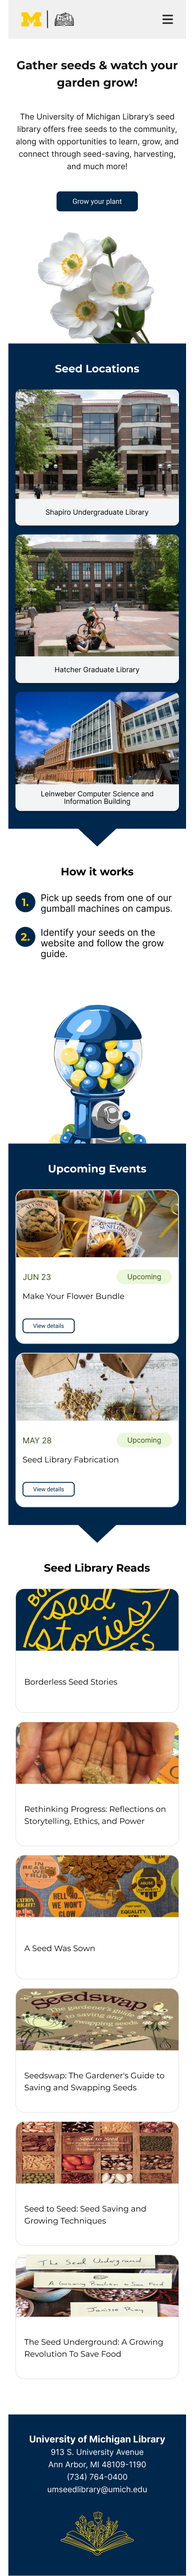
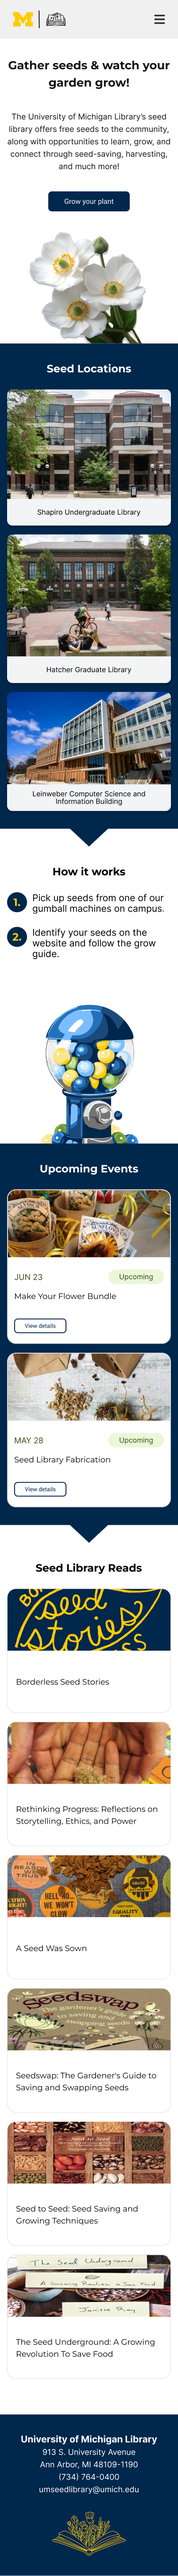
fixed seed library figures 4..

diff --git a/src/components/Lightbox.jsx b/src/components/Lightbox.jsx
@@ -1,4 +1,4 @@
-import { useEffect, useRef } from 'react'
+import { useEffect, useRef, useState } from 'react'
 import { createPortal } from 'react-dom'
 
 export default function Lightbox({
@@ -17,6 +17,20 @@ export default function Lightbox({
 }) {
   const cardRef = useRef(null)
   const previouslyFocusedRef = useRef(null)
+  const stageRef = useRef(null)
+  const [isTall, setIsTall] = useState(false)
+
+  // Reset tall detection + scroll position whenever the displayed source changes
+  useEffect(() => {
+    setIsTall(false)
+    if (stageRef.current) stageRef.current.scrollTop = 0
+  }, [src, svg, html])
+
+  const onImageLoad = (e) => {
+    const img = e.currentTarget
+    if (!img.naturalWidth || !img.naturalHeight) return
+    setIsTall(img.naturalHeight / img.naturalWidth > 1.6)
+  }
 
   useEffect(() => {
     if (!isOpen) return
@@ -114,7 +128,10 @@ export default function Lightbox({
         aria-modal="true"
         aria-label={dialogLabel}
       >
-        <div className="img-modal-stage">
+        <div
+          ref={stageRef}
+          className={`img-modal-stage${isTall ? ' is-tall' : ''}`}
+        >
           {html ? (
             <div
               className="img-modal-image html-wrap"
@@ -136,6 +153,7 @@ export default function Lightbox({
               alt={alt || label || ''}
               className="img-modal-image"
               onClick={imgClick}
+              onLoad={onImageLoad}
             />
           )}
         </div>

diff --git a/src/css/components.css b/src/css/components.css
@@ -986,6 +986,21 @@
   max-height: calc(100vh - 64px - 48px); /* viewport - vertical padding - footer */
   cursor: pointer;
 }
+/* Tall / portrait images: clamp width, let stage scroll vertically */
+.img-modal-stage.is-tall {
+  align-items: flex-start;
+  justify-content: center;
+  overflow-y: auto;
+  overflow-x: hidden;
+  max-height: calc(100vh - 64px - 48px);
+  width: 100%;
+}
+.img-modal-stage.is-tall .img-modal-image {
+  max-height: none;
+  width: clamp(320px, 30vw, 500px);
+  max-width: min(calc(100vw - 64px - var(--modal-arrow-gutter)), 500px);
+  height: auto;
+}
 .img-modal-arrow {
   flex-shrink: 0;
   width: 44px;

diff --git a/src/pages/Home.jsx b/src/pages/Home.jsx
@@ -76,7 +76,7 @@ export default function Home({ onNavigate }) {
 
       <footer className="home-footer">
         <span className="end-marker">end of index · anthony.shephard</span>
-        <span>university of michigan · 2026</span>
+        <span>thanks for visiting &#x1F604;</span>
       </footer>
     </div>
   )
